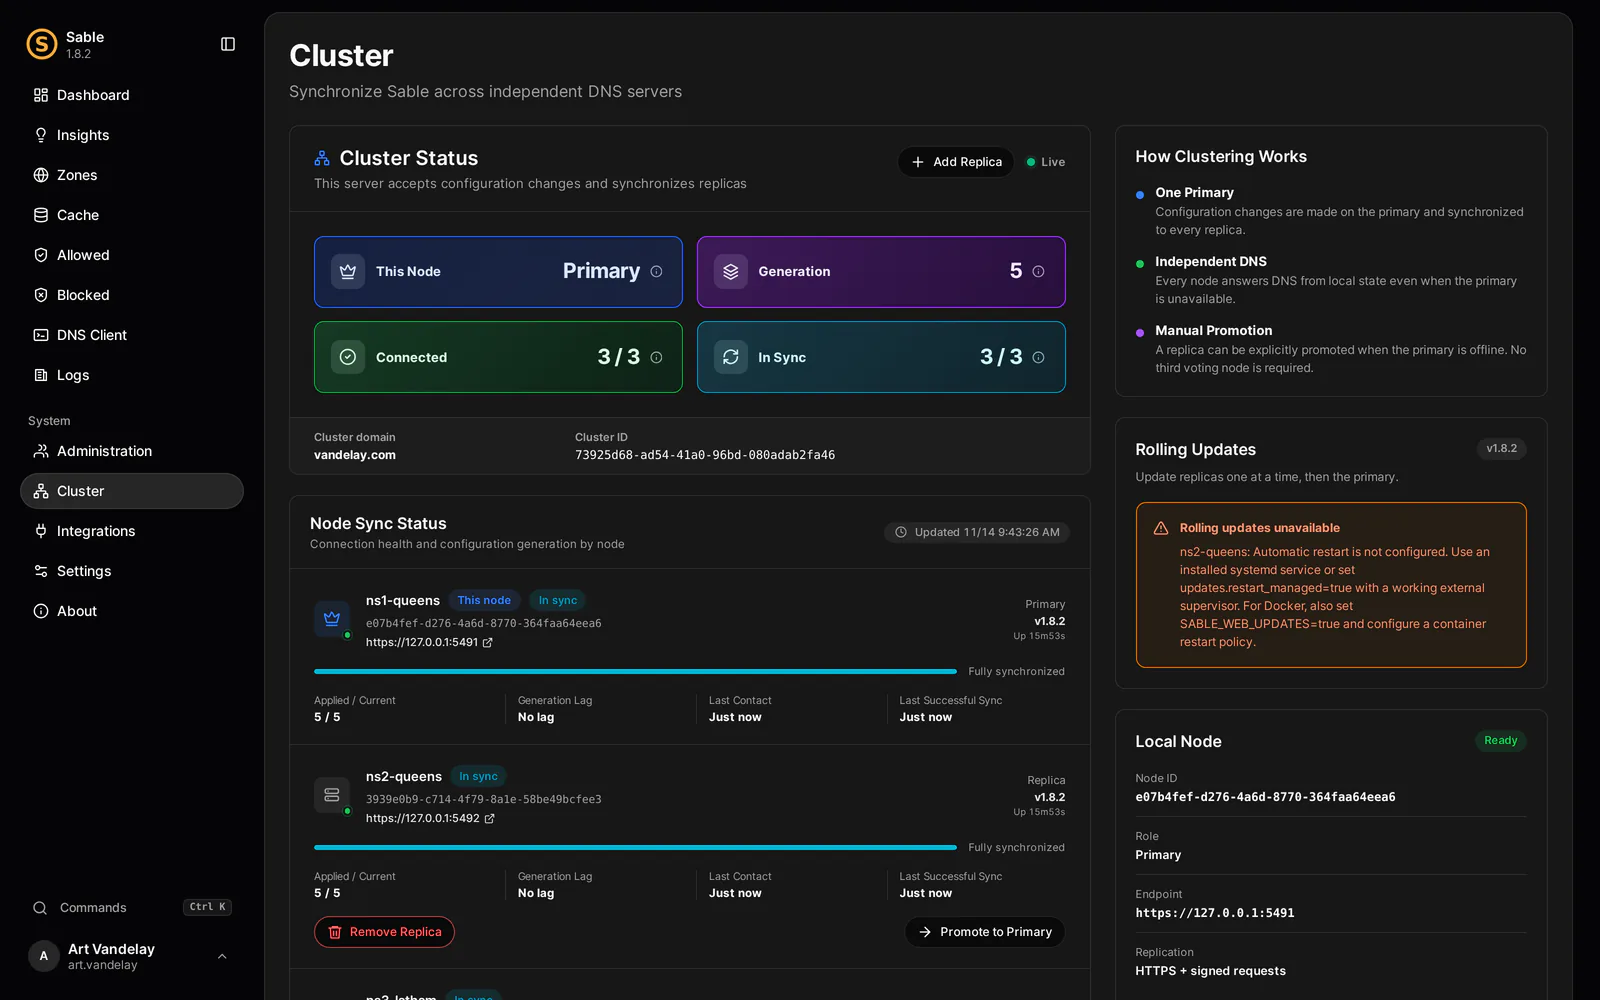
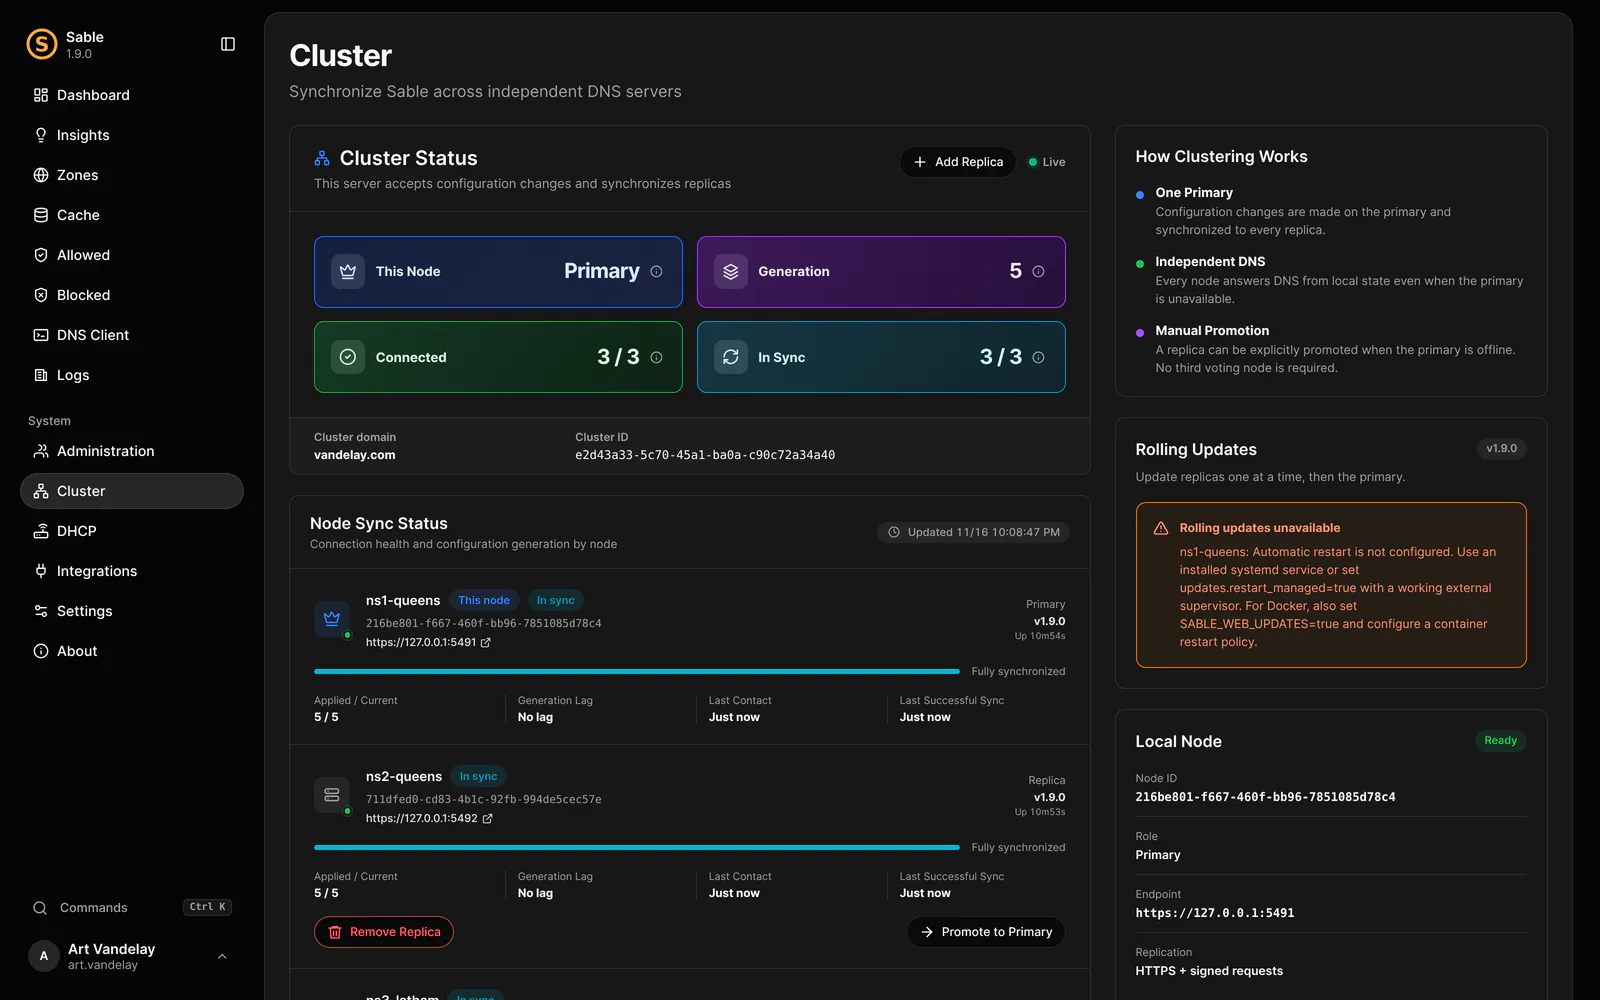
docs: refresh screenshots and guide versions for 1.9.0 (#676)
* docs: refresh 1.9.0 demo screenshots

* docs: update guide versions for 1.9.0

diff --git a/docs/index.md b/docs/index.md
@@ -25,7 +25,7 @@ These guides cover Sable 1.9.0. [Download the release](https://github.com/drudge
 
 - [Migrate from Technitium](guides/technitium-migration.md) into a new instance or cluster using zone files or DNS transfers.
 
-Console screenshots are captured from Sable 1.8.2 using the disposable Vandelay demo deployment.
+Console screenshots are captured from Sable 1.9.0 using the disposable Vandelay demo deployment.
 
 ## Make DNS work for your network
 
